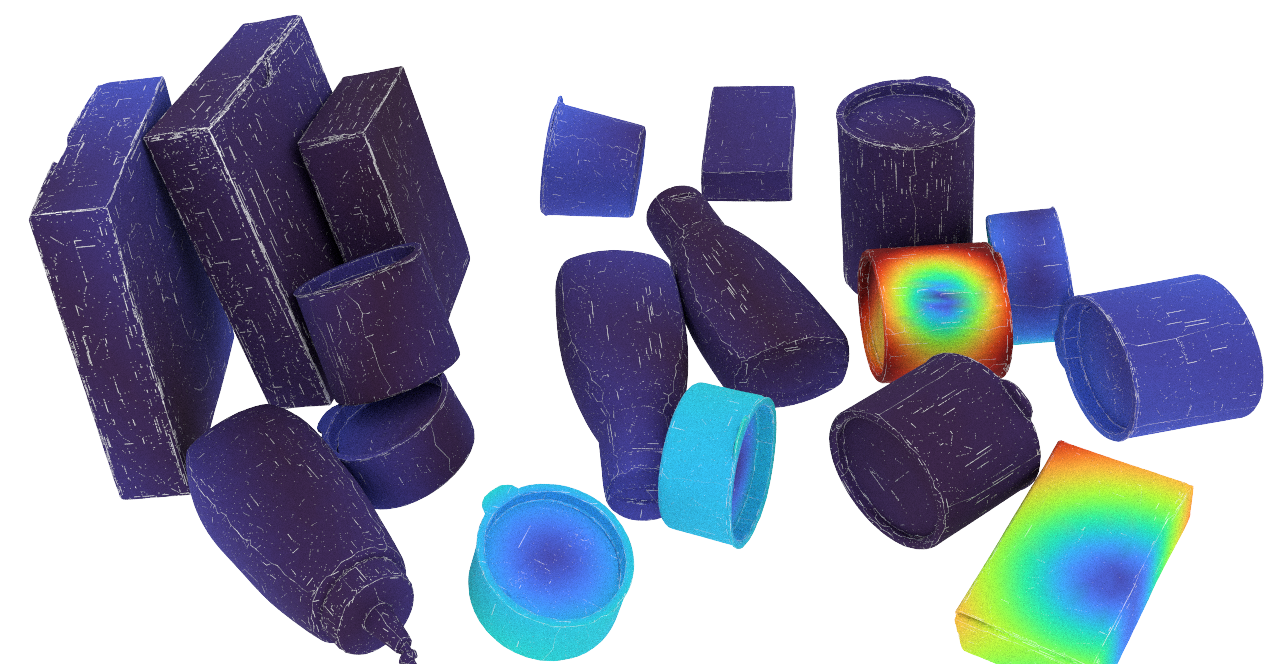
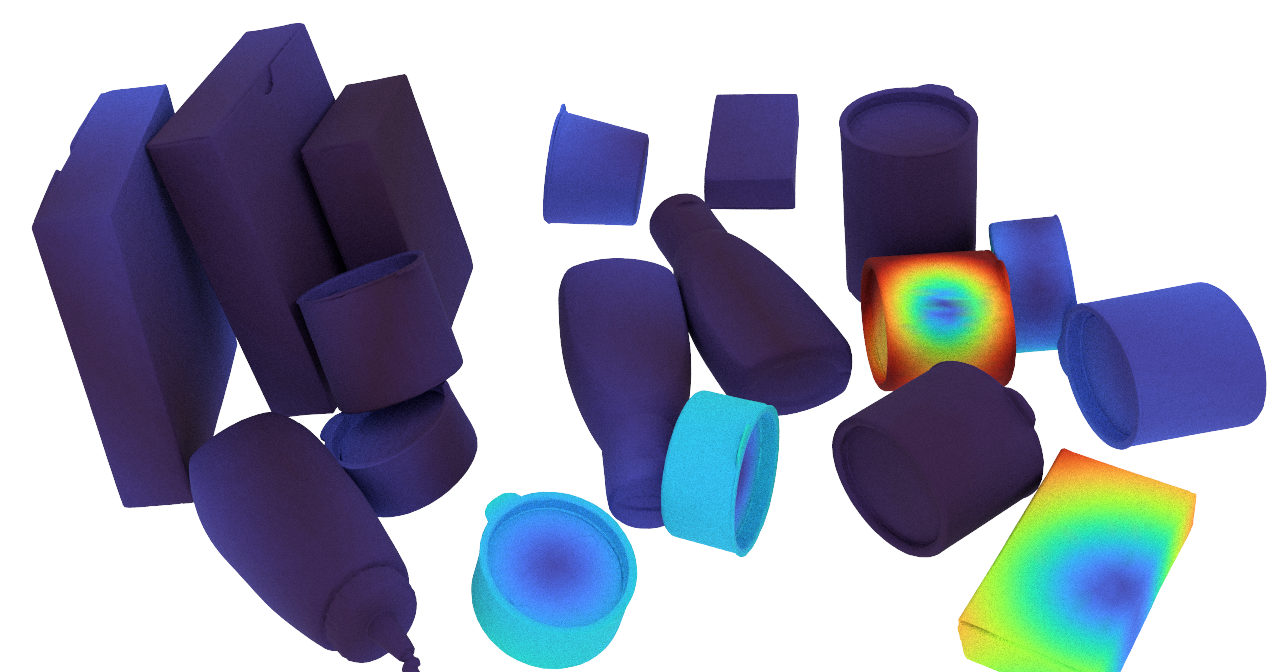
added a raw option

diff --git a/heatmap.py b/heatmap.py
@@ -101,6 +101,11 @@ parser.add_argument(
     '--adds',
     action='store_true',
 )
+parser.add_argument(
+    '--raw',
+    action='store_true',
+    help='make the displayed textured raw, so you have a non smooth texture, but at least it is a little faster.'
+)
 
 parser.add_argument(
     '--out',
@@ -254,7 +259,7 @@ if opt.bop:
     data_json['camera_data']['intrinsics']['cy'] = camera_data_json[str(opt.bop_frame)]["cam_K"][5]
 
     # load an image for resolution 
-    
+
     path_imgs = "/".join(opt.path_json_gt.split("/")[:-1]+ ['rgb/'])
     path_imgs = sorted(glob.glob(path_imgs + "*.png"))
     opt.im_path = path_imgs[0]
@@ -681,11 +686,18 @@ for iobj,obj in enumerate(data_json[str(opt.bop_frame)]):
         else:
             None  # Return black pixel if no non-black pixel found
 
+    if opt.raw is False:
+        # Convert the texture image to grayscale
+        gray_texture = cv2.cvtColor(texture_image, cv2.COLOR_BGR2GRAY)
 
-    grayscale_image = cv2.cvtColor(texture_image, cv2.COLOR_BGR2GRAY)
+        # Find the white spots in the grayscale image (you may need to adjust the threshold)
+        mask = cv2.inRange(gray_texture, 200, 255)
+
+        # Apply inpainting to fill in the white spots
+        texture_image = cv2.inpaint(texture_image, mask, inpaintRadius=3, flags=cv2.INPAINT_TELEA)
 
 
-    # black_coords = np.where(grayscale_image == 0)
+    # black_coords = np.where(grayscale_image >20)
 
     # for x, y in zip(*black_coords):
     #     c = find_non_black_in_window(texture_image, x, y)

diff --git a/readme.md b/readme.md
@@ -8,4 +8,4 @@ This is the code that was used to generate the heatmap results for [Diff-DOPE](h
 python heatmap.py --opencv --bop --overlay --path_json_gt example/scene_gt.json --path_json_gu example/diff_dope.json --objs_folder example/models/ --contour --spp 100
 ```
 
-This should produce the image above.
+This should produce the image above. Run with `--raw` for a faster generation
